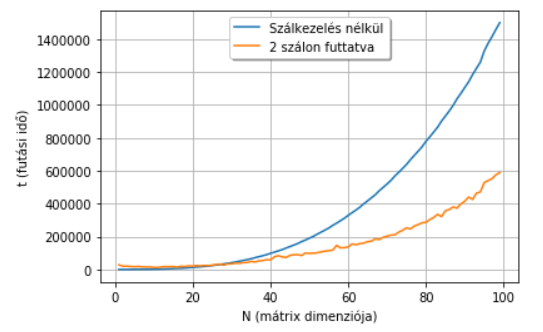
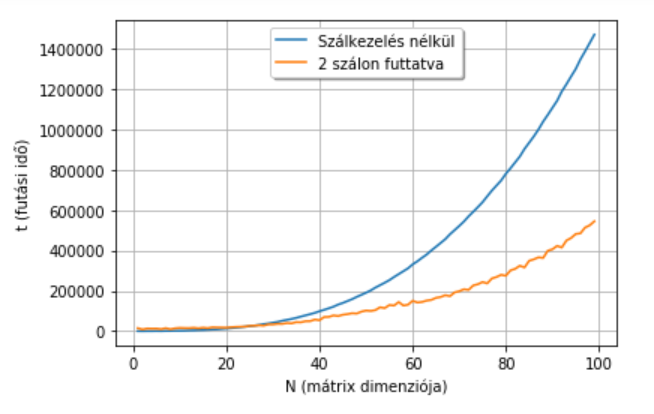
Add files via upload

Changed region(s): [[0.0, 0.0301, 0.9724, 0.994]]

diff --git a/Szálkezelés/matrix.h b/Szálkezelés/matrix.h
@@ -528,7 +528,7 @@ std::istream& operator>>(std::istream& s, matrix<T>& m)
 //----------------------------------------------------------------------------------------------
 
 template <typename T>
-auto multiplication_matrix_parallel( int N,   matrix<T> const& m1, matrix<T> const& m2, matrix<T> & m3)
+void multiplication_matrix_parallel( int N,   matrix<T> const& m1, matrix<T> const& m2, matrix<T> & m3)
 {
 	auto f = [&](int const& a, int const& b)  
 	{
@@ -544,31 +544,20 @@ auto multiplication_matrix_parallel( int N,   matrix<T> const& m1, matrix<T> con
 				for(int k=0; k < N; k++)
 				{
 					h += m1(i,k) * m2(k,j);
-				}  
-				hold[(i - a) * N + j] = h;          
+				} 
+				m3(i, j) = h;				         
 			} 
 		} 
-		return hold;
+				
 	};
 
 	int a= floor(N/2);
 
 	auto future_0 = std::async( std::launch::async, f , 0, a );
 	auto future_1 = std::async( std::launch::async, f, a, N );
-	auto holder_0 = future_0.get();
-	auto holder_1 = future_1.get();
+	
 
-	for (int i=0; i < N * N; i++)
-    {
-        if (i < a  * N )
-        {
-           m3[i] = holder_0[i]; 
-        }
-		else
-        {
-            m3[i] = holder_1[i - a * N];
-        }
-	}
+
 
 }
 

diff --git a/Szálkezelés/main.cpp b/Szálkezelés/main.cpp
@@ -25,10 +25,14 @@ for (int j=1; j<100; ++j)  //dim megadása
 
     matrix<double> A(j);
     matrix<double> B(j);   
+    matrix<double> C(j);
+    matrix<double> D(j);
 
     
     std::generate(A.begin(), A.end(), [&](){ return distr(gen) ;});
     std::generate(B.begin(), B.end(), [&](){ return distr(gen) ;});
+    std::generate(C.begin(), C.end(), [&](){ return distr(gen) ;});
+    std::generate(D.begin(), D.end(), [&](){ return distr(gen) ;});
 
 
     int N{100};  //hányszor végezzük el az időmérést
@@ -42,7 +46,7 @@ for (int j=1; j<100; ++j)  //dim megadása
         auto t2 = std::chrono::high_resolution_clock::now();
     
         auto t3 = std::chrono::high_resolution_clock::now();
-        m_m_p(A, B);
+        m_m_p(C, D);
         auto t4 = std::chrono::high_resolution_clock::now();
     
         T1[i] = std::chrono::duration_cast<std::chrono::nanoseconds>(t2-t1).count();
